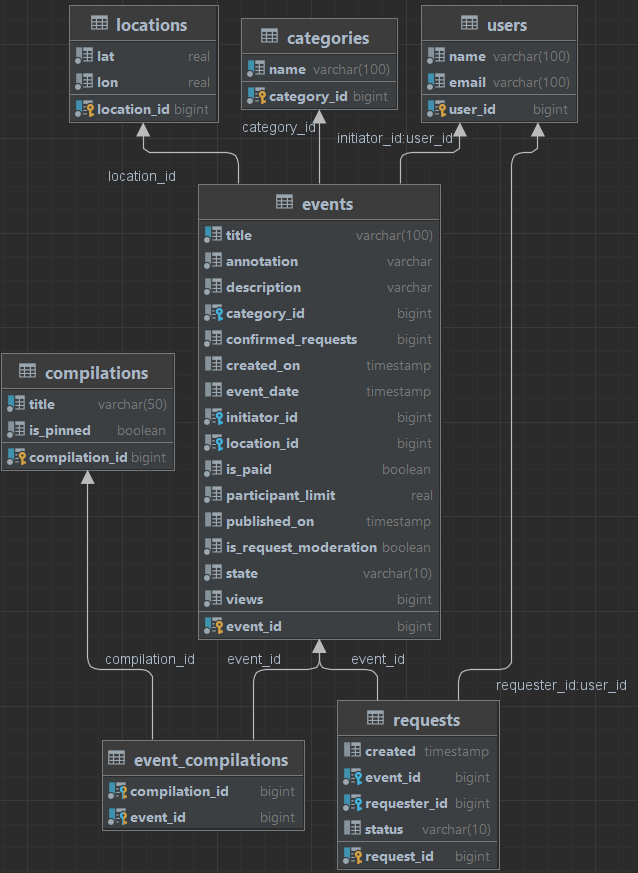
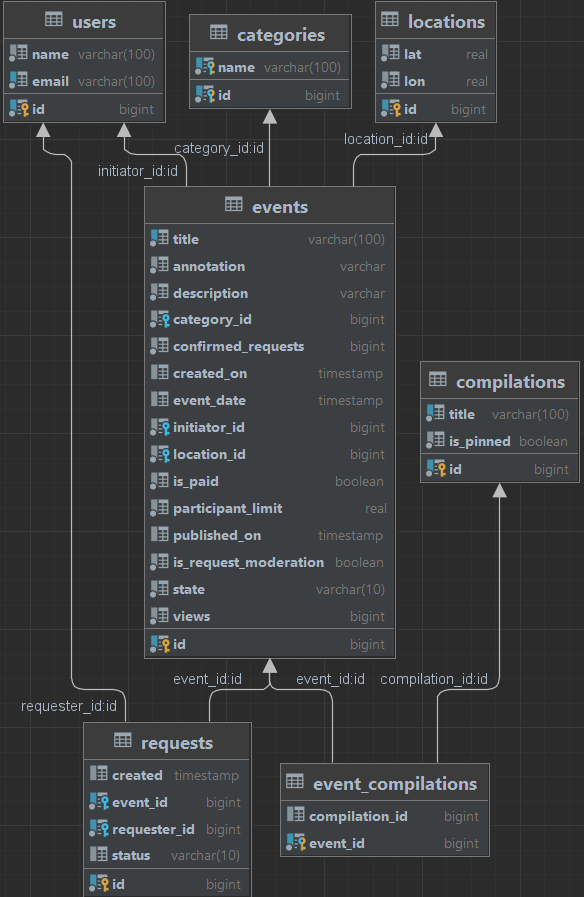
refactor: using the MappedSuperclass strategy for entity

diff --git a/ewm/src/main/java/ru/yandex/practicum/ewm/model/ParticipationRequest.java b/ewm/src/main/java/ru/yandex/practicum/ewm/model/ParticipationRequest.java
@@ -1,22 +1,20 @@
 package ru.yandex.practicum.ewm.model;
 
-import lombok.*;
-import org.hibernate.Hibernate;
+import lombok.Getter;
+import lombok.Setter;
+import lombok.ToString;
 
-import javax.persistence.*;
+import javax.persistence.Column;
+import javax.persistence.Entity;
+import javax.persistence.Table;
 import java.time.LocalDateTime;
-import java.util.Objects;
 
 @Getter
 @Setter
 @ToString
 @Entity
 @Table(name = "requests")
-public class ParticipationRequest {
-    @Id
-    @GeneratedValue(strategy = GenerationType.IDENTITY)
-    @Column(name = "request_id", nullable = false)
-    private Long id;
+public class ParticipationRequest extends BaseEntity{
     @Column(name = "created", nullable = false)
     private LocalDateTime created;
     @Column(name = "event_id")
@@ -25,17 +23,4 @@ public class ParticipationRequest {
     private Long requesterId;
     @Column(name = "status", nullable = false)
     private RequestStatus status;
-
-    @Override
-    public boolean equals(Object o) {
-        if (this == o) return true;
-        if (o == null || Hibernate.getClass(this) != Hibernate.getClass(o)) return false;
-        ParticipationRequest that = (ParticipationRequest) o;
-        return id != null && Objects.equals(id, that.id);
-    }
-
-    @Override
-    public int hashCode() {
-        return getClass().hashCode();
-    }
 }

diff --git a/ewm/src/main/java/ru/yandex/practicum/ewm/model/Compilation.java b/ewm/src/main/java/ru/yandex/practicum/ewm/model/Compilation.java
@@ -1,21 +1,19 @@
 package ru.yandex.practicum.ewm.model;
 
-import lombok.*;
-import org.hibernate.Hibernate;
+import lombok.Getter;
+import lombok.Setter;
+import lombok.ToString;
 
 import javax.persistence.*;
-import java.util.*;
+import java.util.HashSet;
+import java.util.Set;
 
 @Getter
 @Setter
 @ToString
 @Entity
 @Table(name = "compilations")
-public class Compilation {
-    @Id
-    @GeneratedValue(strategy = GenerationType.IDENTITY)
-    @Column(name = "compilation_id")
-    private Long id;
+public class Compilation extends BaseEntity{
     @Column(name = "title", nullable = false)
     private String title;
     @Column(name = "is_pinned", nullable = false)
@@ -28,17 +26,4 @@ public class Compilation {
     )
     @ToString.Exclude
     private Set<Event> events = new HashSet<>();
-
-    @Override
-    public boolean equals(Object o) {
-        if (this == o) return true;
-        if (o == null || Hibernate.getClass(this) != Hibernate.getClass(o)) return false;
-        Compilation that = (Compilation) o;
-        return id != null && Objects.equals(id, that.id);
-    }
-
-    @Override
-    public int hashCode() {
-        return getClass().hashCode();
-    }
 }

diff --git a/ewm/src/main/java/ru/yandex/practicum/ewm/model/Event.java b/ewm/src/main/java/ru/yandex/practicum/ewm/model/Event.java
@@ -1,22 +1,18 @@
 package ru.yandex.practicum.ewm.model;
 
-import lombok.*;
-import org.hibernate.Hibernate;
+import lombok.Getter;
+import lombok.Setter;
+import lombok.ToString;
 
 import javax.persistence.*;
 import java.time.LocalDateTime;
-import java.util.Objects;
 
 @Getter
 @Setter
 @ToString
 @Entity
 @Table(name = "events")
-public class Event {
-    @Id
-    @GeneratedValue(strategy = GenerationType.IDENTITY)
-    @Column(name = "event_id")
-    private Long id;
+public class Event extends BaseEntity{
     @Column(name = "title", nullable = false)
     private String title;
     @Column(name = "annotation", nullable = false)
@@ -51,17 +47,4 @@ public class Event {
     private EventState state;
     @Column(name = "views", nullable = false)
     private Long views;
-
-    @Override
-    public boolean equals(Object o) {
-        if (this == o) return true;
-        if (o == null || Hibernate.getClass(this) != Hibernate.getClass(o)) return false;
-        Event event = (Event) o;
-        return id != null && Objects.equals(id, event.id);
-    }
-
-    @Override
-    public int hashCode() {
-        return getClass().hashCode();
-    }
 }

diff --git a/ewm/src/main/java/ru/yandex/practicum/ewm/model/Location.java b/ewm/src/main/java/ru/yandex/practicum/ewm/model/Location.java
@@ -3,36 +3,19 @@ package ru.yandex.practicum.ewm.model;
 import lombok.Getter;
 import lombok.Setter;
 import lombok.ToString;
-import org.hibernate.Hibernate;
 
-import javax.persistence.*;
-import java.util.Objects;
+import javax.persistence.Column;
+import javax.persistence.Entity;
+import javax.persistence.Table;
 
 @Getter
 @Setter
 @ToString
 @Entity
 @Table(name = "locations")
-public class Location {
-    @Id
-    @GeneratedValue(strategy = GenerationType.IDENTITY)
-    @Column(name = "location_id")
-    private Long id;
+public class Location extends BaseEntity{
     @Column(name = "lat", nullable = false)
     private Float lat;
     @Column(name = "lon", nullable = false)
     private Float lon;
-
-    @Override
-    public boolean equals(Object o) {
-        if (this == o) return true;
-        if (o == null || Hibernate.getClass(this) != Hibernate.getClass(o)) return false;
-        Location location = (Location) o;
-        return id != null && Objects.equals(id, location.id);
-    }
-
-    @Override
-    public int hashCode() {
-        return getClass().hashCode();
-    }
 }

diff --git a/ewm/src/main/java/ru/yandex/practicum/ewm/model/Category.java b/ewm/src/main/java/ru/yandex/practicum/ewm/model/Category.java
@@ -1,34 +1,19 @@
 package ru.yandex.practicum.ewm.model;
 
-import lombok.*;
-import org.hibernate.Hibernate;
+import lombok.Getter;
+import lombok.Setter;
+import lombok.ToString;
 
-import javax.persistence.*;
-import java.util.Objects;
+import javax.persistence.Column;
+import javax.persistence.Entity;
+import javax.persistence.Table;
 
 @Getter
 @Setter
 @ToString
 @Entity
 @Table(name = "categories")
-public class Category {
-    @Id
-    @GeneratedValue(strategy = GenerationType.IDENTITY)
-    @Column(name = "category_id")
-    private Long id;
+public class Category extends BaseEntity{
     @Column(name = "name", nullable = false, unique = true, length = 100)
     private String name;
-
-    @Override
-    public boolean equals(Object o) {
-        if (this == o) return true;
-        if (o == null || Hibernate.getClass(this) != Hibernate.getClass(o)) return false;
-        Category category = (Category) o;
-        return id != null && Objects.equals(id, category.id);
-    }
-
-    @Override
-    public int hashCode() {
-        return getClass().hashCode();
-    }
 }

diff --git a/ewm/src/main/java/ru/yandex/practicum/ewm/model/User.java b/ewm/src/main/java/ru/yandex/practicum/ewm/model/User.java
@@ -3,36 +3,17 @@ package ru.yandex.practicum.ewm.model;
 import lombok.Getter;
 import lombok.Setter;
 import lombok.ToString;
-import org.hibernate.Hibernate;
 
 import javax.persistence.*;
-import java.util.Objects;
 
 @Getter
 @Setter
 @ToString
 @Entity
 @Table(name = "users")
-public class User {
-    @Id
-    @GeneratedValue(strategy = GenerationType.IDENTITY)
-    @Column(name = "user_id")
-    private Long id;
+public class User extends BaseEntity {
     @Column(name = "name", nullable = false, length = 100)
     private String name;
     @Column(name = "email", nullable = false, unique = true, length = 100)
     private String email;
-
-    @Override
-    public boolean equals(Object o) {
-        if (this == o) return true;
-        if (o == null || Hibernate.getClass(this) != Hibernate.getClass(o)) return false;
-        User user = (User) o;
-        return id != null && Objects.equals(id, user.id);
-    }
-
-    @Override
-    public int hashCode() {
-        return getClass().hashCode();
-    }
 }

diff --git a/ewm/src/main/java/ru/yandex/practicum/ewm/model/BaseEntity.java b/ewm/src/main/java/ru/yandex/practicum/ewm/model/BaseEntity.java
@@ -1,0 +1,31 @@
+package ru.yandex.practicum.ewm.model;
+
+import lombok.Getter;
+import org.hibernate.Hibernate;
+
+import javax.persistence.GeneratedValue;
+import javax.persistence.GenerationType;
+import javax.persistence.Id;
+import javax.persistence.MappedSuperclass;
+import java.util.Objects;
+
+@Getter
+@MappedSuperclass
+public class BaseEntity {
+    @Id
+    @GeneratedValue(strategy = GenerationType.IDENTITY)
+    private Long id;
+
+    @Override
+    public boolean equals(Object o) {
+        if (this == o) return true;
+        if (o == null || Hibernate.getClass(this) != Hibernate.getClass(o)) return false;
+        BaseEntity baseModel = (BaseEntity) o;
+        return id != null && Objects.equals(id, baseModel.id);
+    }
+
+    @Override
+    public int hashCode() {
+        return getClass().hashCode();
+    }
+}
